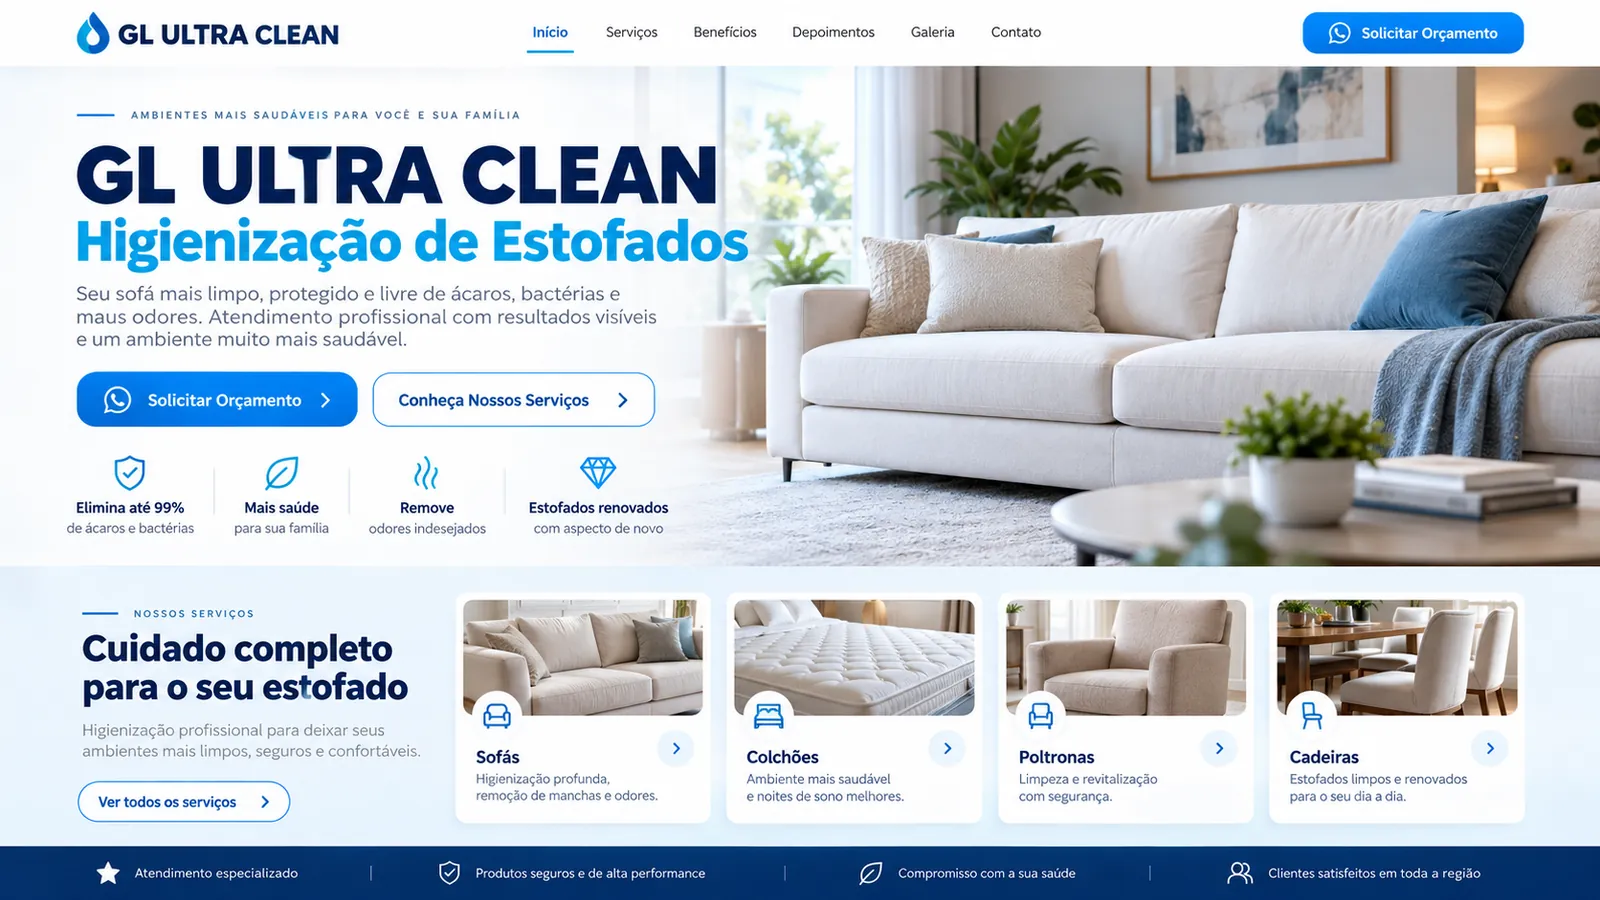
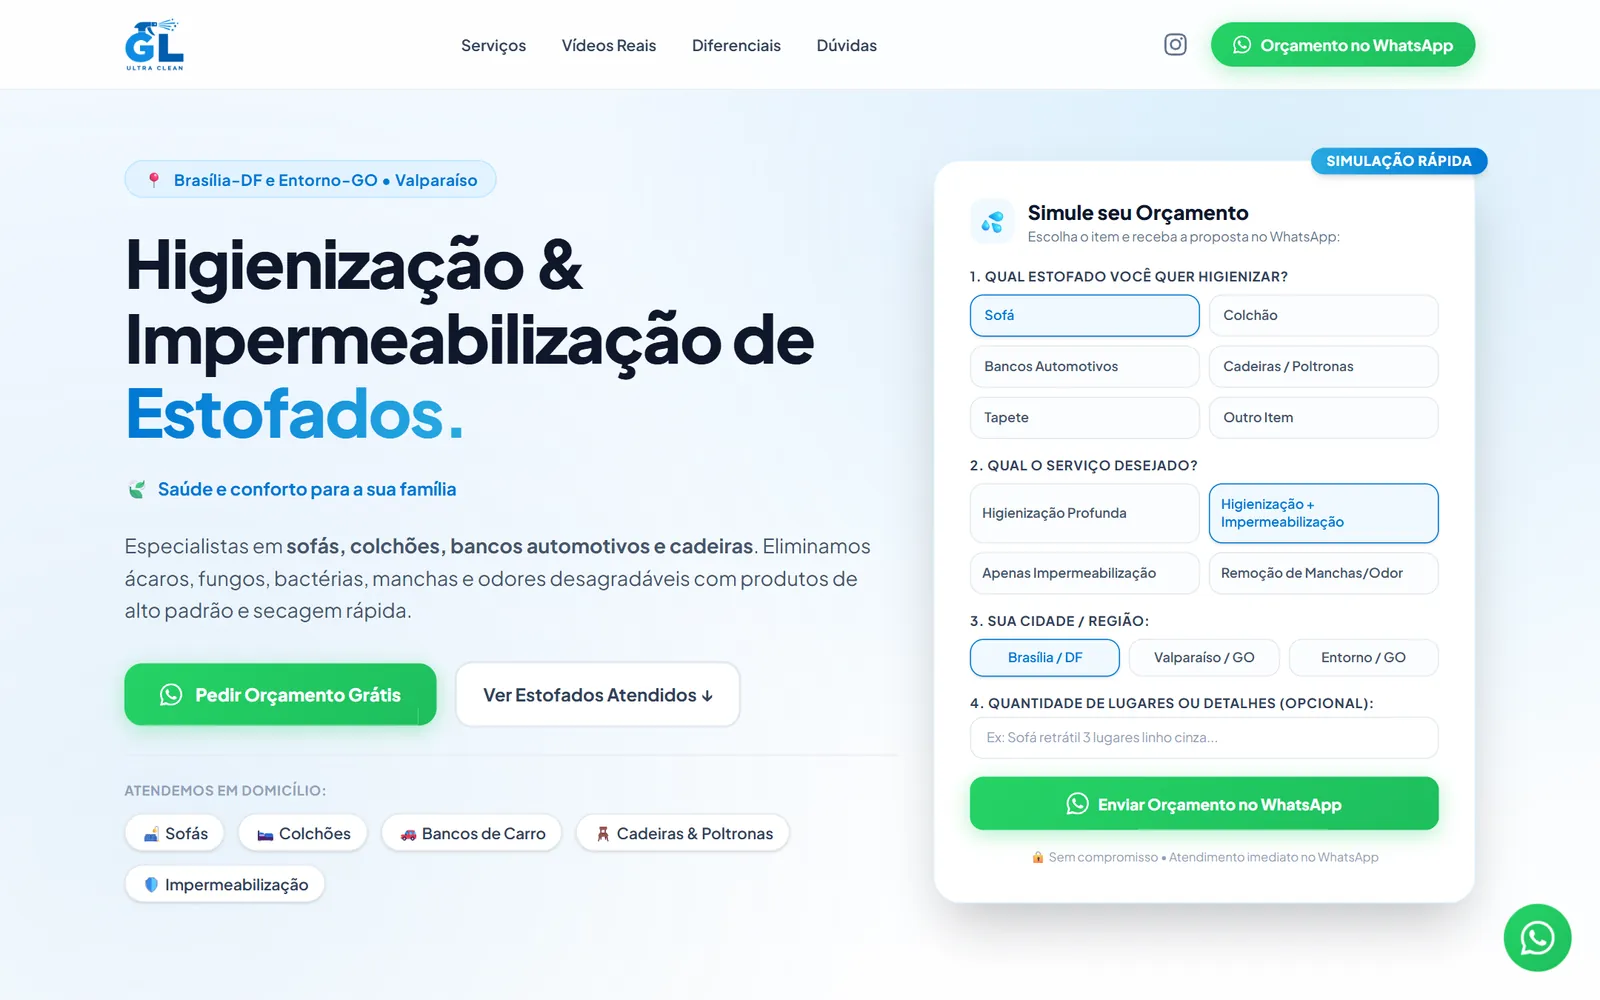
feat: usa telas reais do GL Ultra Clean e SFL Pro e adiciona DopaShop
- Substitui os mockups gerados por capturas reais dos projetos rodando
- SFL Pro exibido em moldura de celular, por ser um app mobile
- Novo projeto DopaShop (e-commerce gamificado) na lista de trabalhos
- Imagens e tipo de moldura definidos por projeto em src/data.js

diff --git a/src/main.jsx b/src/main.jsx
@@ -256,15 +256,23 @@ function Projects() {
                   <a className="btn btn-light" href={p.url} target="_blank" rel="noreferrer">Ver no GitHub <Arrow /></a>
                 </Magnetic>
               </div>
-              <a className={`project-media ${p.ratio === '4 / 5' ? 'is-tall' : ''}`} href={p.url} target="_blank" rel="noreferrer" data-cursor="Abrir" aria-label={`Abrir ${p.name} no GitHub`}>
-                <div className="browser">
-                  <div className="browser-bar"><i /><i /><i /><span>{p.id}.markoswcs.dev</span></div>
-                  <div className="browser-view">
-                    {p.image
-                      ? <img {...img(p.image, p.image === 'notion' ? [700, 1300] : p.image === 'gabriella' ? [700, 1200] : [800, 1600])} sizes="(max-width: 900px) 92vw, 55vw" loading="lazy" decoding="async" alt={`Tela do projeto ${p.name}`} />
-                      : <FlowyArt />}
+              <a className={`project-media ${p.device === 'tall' ? 'is-tall' : ''}`} href={p.url} target="_blank" rel="noreferrer" data-cursor="Abrir" aria-label={`Abrir ${p.name} no GitHub`}>
+                {p.device === 'phone' ? (
+                  <div className="phone">
+                    <div className="phone-view">
+                      <img {...img(p.image, p.widths)} sizes="320px" loading="lazy" decoding="async" alt={`Tela real do app ${p.name}`} />
+                    </div>
                   </div>
-                </div>
+                ) : (
+                  <div className="browser">
+                    <div className="browser-bar"><i /><i /><i /><span>{p.id}.markoswcs.dev</span></div>
+                    <div className="browser-view">
+                      {p.image
+                        ? <img {...img(p.image, p.widths)} sizes="(max-width: 900px) 92vw, 55vw" loading="lazy" decoding="async" alt={`Tela real do projeto ${p.name}`} />
+                        : <FlowyArt />}
+                    </div>
+                  </div>
+                )}
               </a>
             </div>
           </article>
@@ -441,7 +449,7 @@ function useAnimations(root) {
       cards.forEach((card, i) => {
         const inner = card.querySelector('.project-inner');
         gsap.from(card.querySelectorAll('.project-info > *'), { y: 40, opacity: 0, duration: 1, stagger: 0.06, ease: 'expo.out', scrollTrigger: { trigger: card, start: 'top 70%' } });
-        gsap.fromTo(card.querySelector('.browser-view img, .flowy-art'), { scale: 1.15 }, { scale: 1, ease: 'none', scrollTrigger: { trigger: card, start: 'top bottom', end: 'top 20%', scrub: true } });
+        gsap.fromTo(card.querySelector('.browser-view img, .phone-view img, .flowy-art'), { scale: 1.15 }, { scale: 1, ease: 'none', scrollTrigger: { trigger: card, start: 'top bottom', end: 'top 20%', scrub: true } });
         if (i < cards.length - 1 && window.innerWidth > 900) {
           gsap.to(inner, {
             scale: 0.9, filter: 'brightness(.45)', ease: 'none',

diff --git a/src/data.js b/src/data.js
@@ -18,6 +18,18 @@ export const projects = [
     tone: '#7b5cff',
   },
   {
+    id: 'dopashop',
+    name: 'DopaShop',
+    kind: 'E-commerce gamificado',
+    year: '2026',
+    summary: 'Loja com moeda virtual, abertura de caixas, roletas, crash game e batalhas ao vivo entre amigos — e-commerce que vira jogo.',
+    stack: ['React', 'Vite', 'Tailwind', 'Three.js', 'Node.js', 'Socket.IO'],
+    url: 'https://github.com/markoswcs/Dopamina',
+    image: 'dopashop',
+    widths: [800, 1440],
+    tone: '#ff5a2c',
+  },
+  {
     id: 'gl',
     name: 'GL Ultra Clean',
     kind: 'Site institucional',
@@ -26,7 +38,7 @@ export const projects = [
     stack: ['Next.js', 'React', 'TypeScript', 'Tailwind'],
     url: 'https://github.com/markoswcs/GL-ULTRA-CLEAN',
     image: 'gl-ultra',
-    ratio: '16 / 9',
+    widths: [800, 1600],
     tone: '#1f7aff',
   },
   {
@@ -34,11 +46,12 @@ export const projects = [
     name: 'SFL Pro',
     kind: 'Dashboard mobile · PWA',
     year: '2025',
-    summary: 'Painel para Sunflower Land com preços em tempo real, alertas e mercado P2P — instalável como app no celular.',
+    summary: 'App para Sunflower Land com saldo, recursos da fazenda, alertas e mercado P2P — instalável no celular como PWA ou via Capacitor.',
     stack: ['JavaScript', 'Capacitor', 'Supabase', 'PWA'],
     url: 'https://github.com/markoswcs/SuperSFL',
     image: 'sfl-pro',
-    ratio: '16 / 9',
+    widths: [400, 780],
+    device: 'phone',
     tone: '#3ccf6e',
   },
   {
@@ -50,7 +63,8 @@ export const projects = [
     stack: ['HTML', 'CSS', 'JavaScript', 'Analytics'],
     url: 'https://github.com/markoswcs/notion-templates',
     image: 'notion',
-    ratio: '4 / 5',
+    widths: [700, 1300],
+    device: 'tall',
     tone: '#5a7bb5',
   },
   {
@@ -62,7 +76,7 @@ export const projects = [
     stack: ['HTML', 'CSS', 'JavaScript'],
     url: 'https://github.com/markoswcs',
     image: 'gabriella',
-    ratio: '16 / 10',
+    widths: [700, 1200],
     tone: '#c2416b',
   },
 ];

diff --git a/src/styles.css b/src/styles.css
@@ -322,6 +322,19 @@ a:hover .arrow { transform: translate(3px, -3px) rotate(0deg); }
 .browser-view { overflow: hidden; aspect-ratio: 16 / 9.4; }
 .browser-view img { width: 100%; height: 100%; object-fit: cover; object-position: top; transition: transform 1.2s var(--ease); }
 .project-media:hover .browser-view img { transform: scale(1.04) !important; }
+.phone {
+  height: 100%; max-height: 620px; aspect-ratio: 390 / 820; padding: 10px; border-radius: 44px;
+  background: linear-gradient(145deg, #2a2a2a, #0b0b0b); border: 1px solid rgba(255, 255, 255, .14);
+  box-shadow: 0 40px 80px -20px rgba(0, 0, 0, .7), inset 0 0 0 2px #050505;
+  transition: transform .9s var(--ease), box-shadow .9s var(--ease);
+}
+.project-media:hover .phone { transform: rotate(-3deg) translateY(-8px); box-shadow: 0 60px 100px -20px rgba(0, 0, 0, .8), 0 0 60px -10px var(--tone); }
+.phone-view { position: relative; height: 100%; border-radius: 34px; overflow: hidden; background: #0a0d12; }
+.phone-view::before {
+  content: ''; position: absolute; z-index: 1; top: 8px; left: 50%; translate: -50% 0;
+  width: 84px; height: 22px; border-radius: 999px; background: #000;
+}
+.phone-view img { width: 100%; height: 100%; object-fit: cover; object-position: top; padding-top: 18px; background: #0a0d12; }
 .is-tall .browser { width: auto; height: 100%; aspect-ratio: auto; }
 .is-tall .browser-view { aspect-ratio: 4 / 4.6; height: calc(100% - 38px); }
 
@@ -453,6 +466,7 @@ a:hover .arrow { transform: translate(3px, -3px) rotate(0deg); }
   .project-kind { margin-top: 0; }
   .is-tall .browser { height: auto; width: min(100%, 420px); }
   .is-tall .browser-view { height: auto; }
+  .phone { height: auto; width: min(72vw, 300px); }
 
   .timeline li { grid-template-columns: 1fr; }
   .timeline p { text-align: left; }
